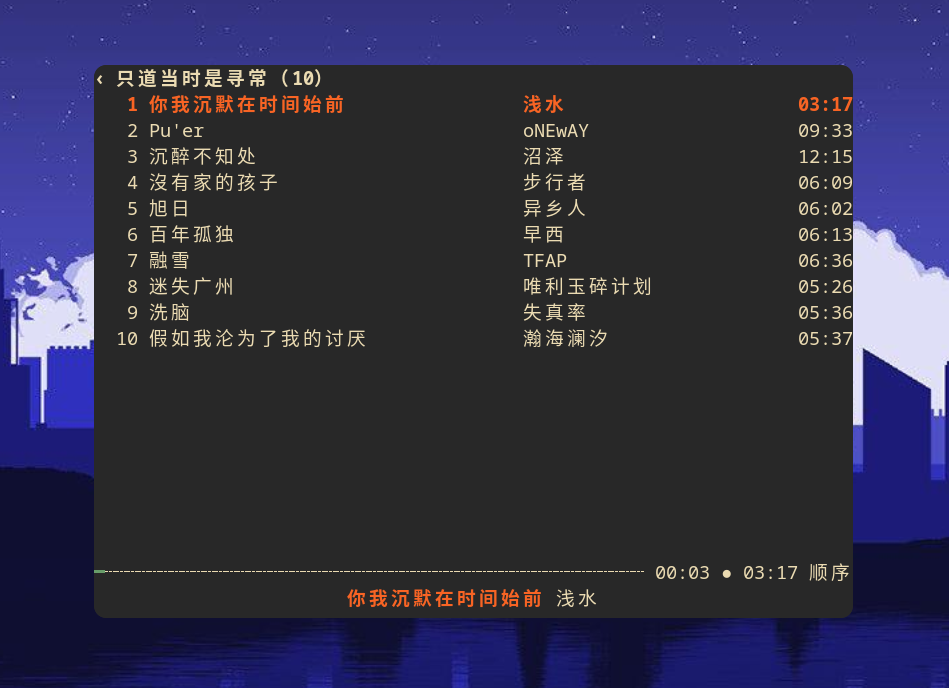
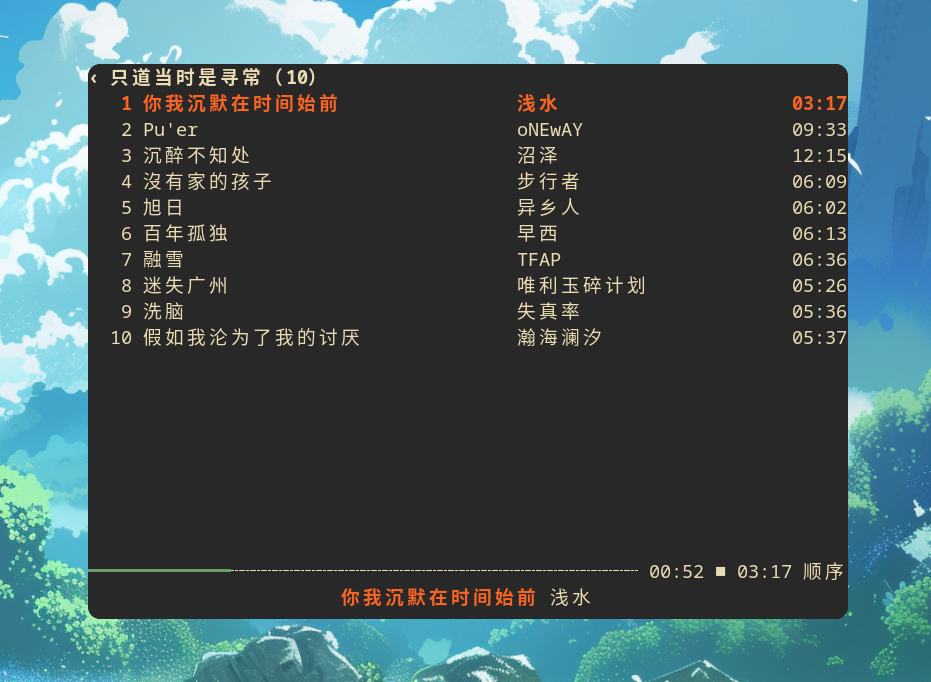
README 截图更换为实机截图：首页 / 歌词纯享 / 雀乐推荐列表

diff --git a/DEVELOPMENT.md b/DEVELOPMENT.md
@@ -35,8 +35,8 @@ musicyi/
 ├── DEVELOPMENT.md             # 本文件
 ├── docs/
 │   ├── screenshot.png         # README 首页截图
-│   ├── screenshot-indie.png   # README 雀乐推荐列表截图
-│   └── screenshot-indie-playing.png  # README 雀乐推荐播放中截图
+│   ├── screenshot-lyrics.png  # README 歌词纯享截图
+│   └── screenshot-indie.png   # README 雀乐推荐列表截图
 ├── .github/workflows/ci.yml   # CI：fmt / check / test / clippy + windows cargo check
 ├── install.sh                 # 构建 release 并安装到 ~/.local/bin（--uninstall 只删二进制）
 ├── api-server/                # Node 网易云 API + 雀乐 / 街声目录（npm，node_modules 不入库）

diff --git a/README.md b/README.md
@@ -10,9 +10,9 @@
 
 ![musicyi 首页](docs/screenshot.png)
 
-| 雀乐推荐列表 | 播放中 |
+| 歌词纯享 | 雀乐推荐列表 |
 | --- | --- |
-| ![雀乐推荐列表](docs/screenshot-indie.png) | ![雀乐推荐播放中（进度 00:46）](docs/screenshot-indie-playing.png) |
+| ![歌词纯享](docs/screenshot-lyrics.png) | ![雀乐推荐列表](docs/screenshot-indie.png) |
 
 - 界面：ratatui 0.30 / crossterm
 - 网络：tokio + reqwest（rustls）
